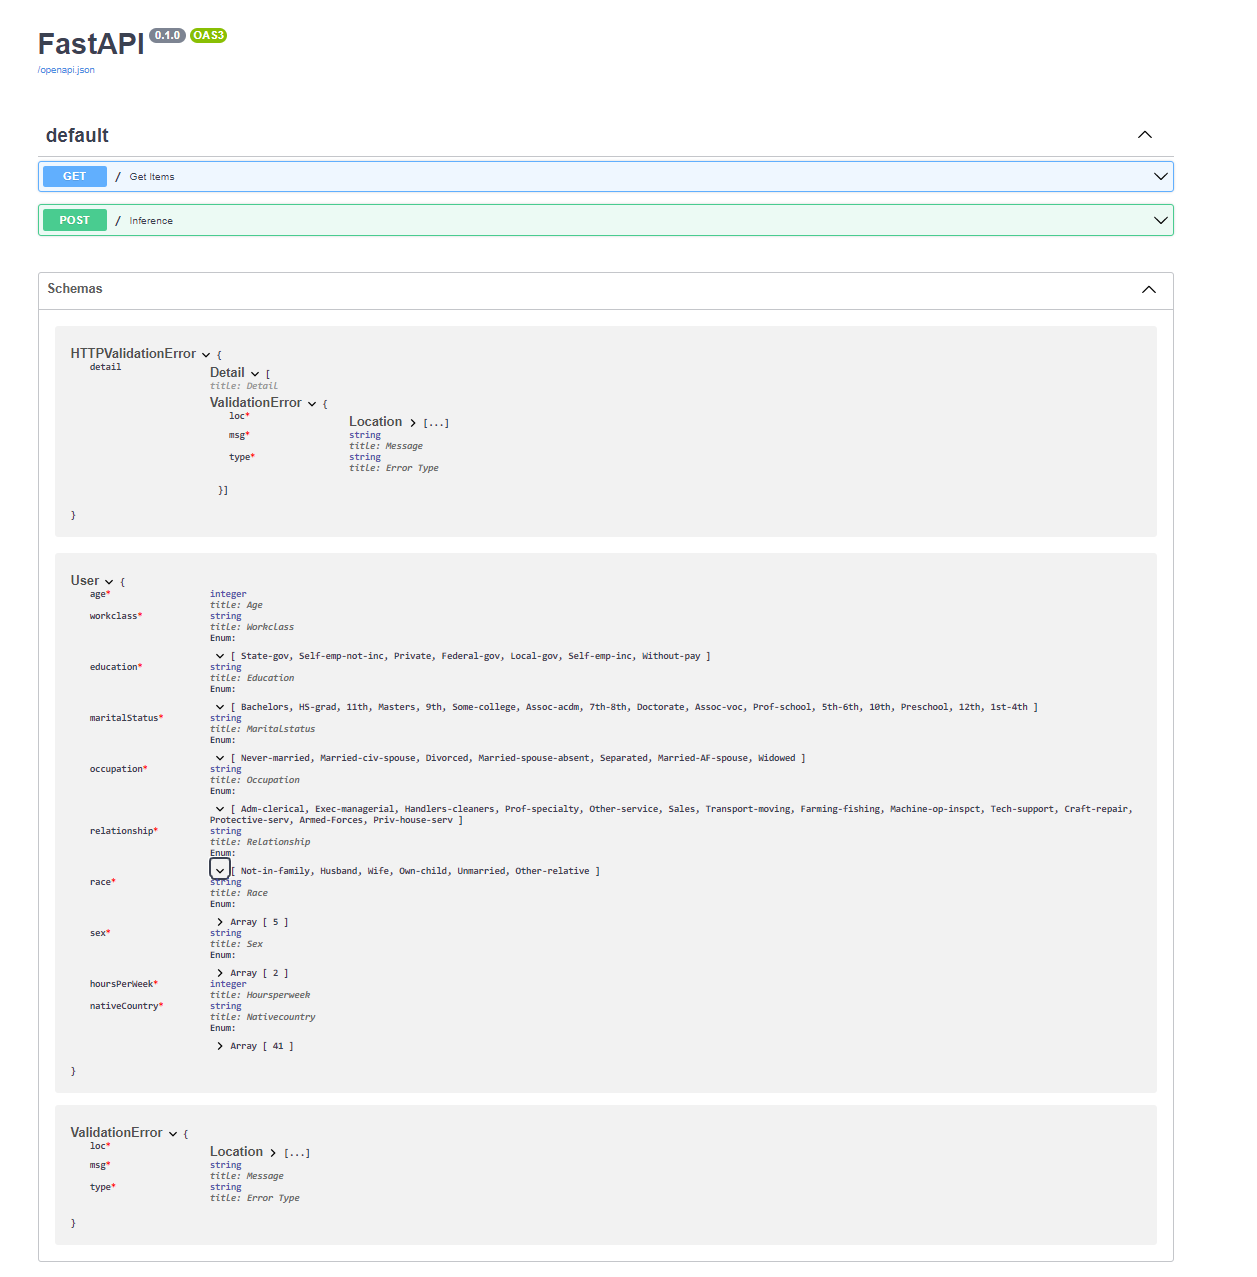
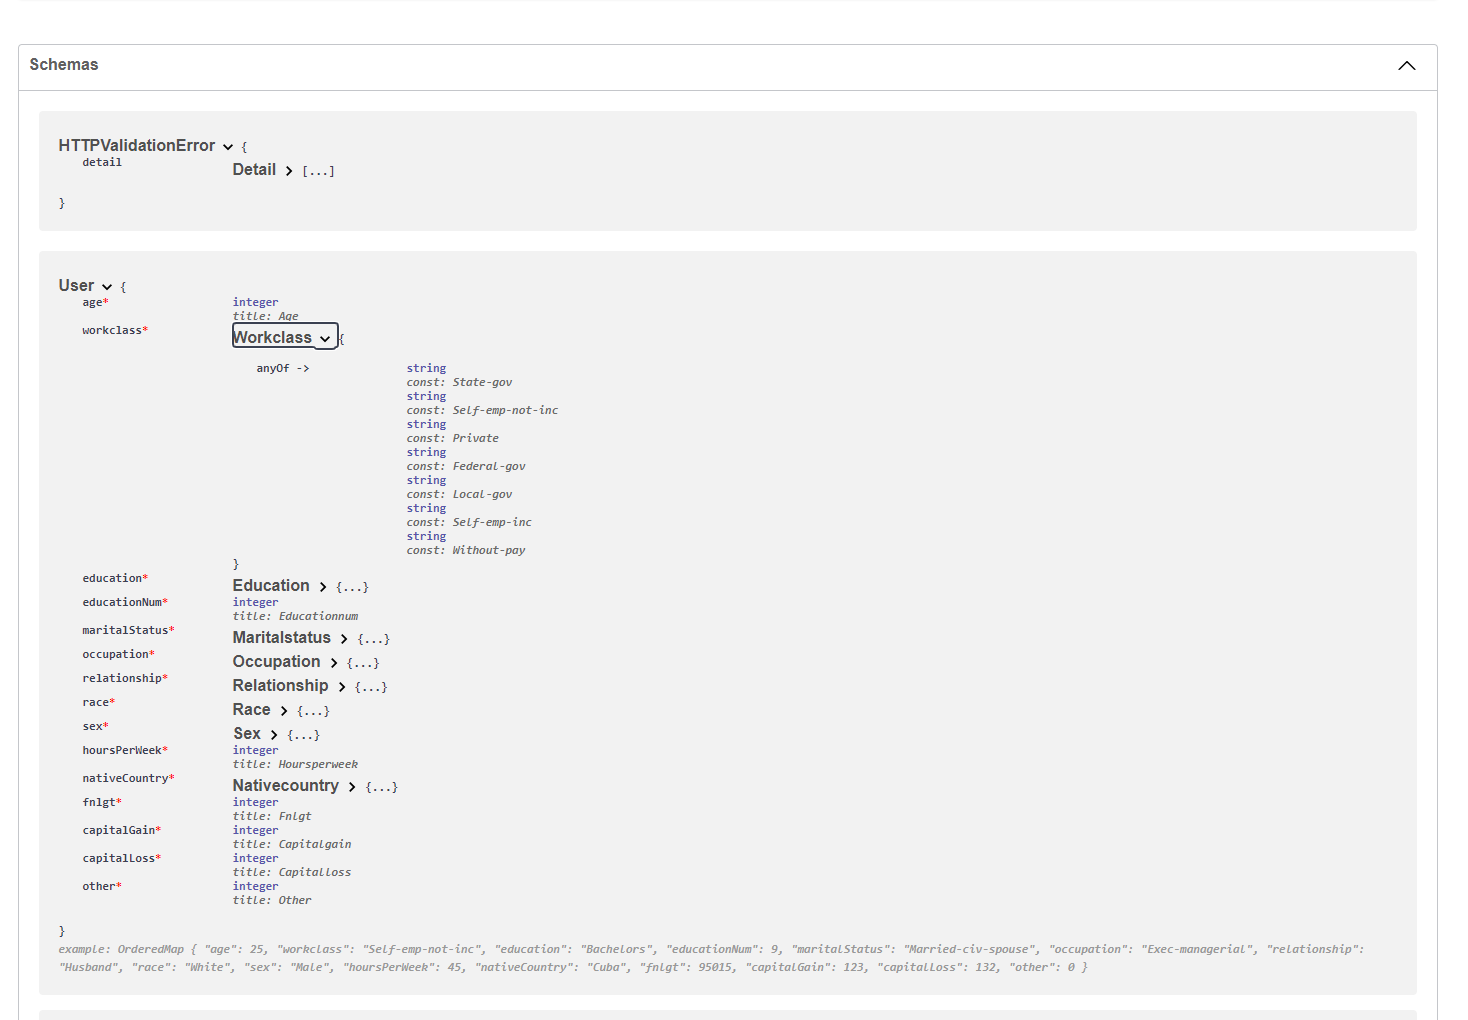
quick changes

diff --git a/train_model_test.py b/train_model_test.py
@@ -7,6 +7,7 @@ from pandas.core.frame import DataFrame
 import pytest
 import pickle
 import train_model
+import pandas as pd
 
 
 @pytest.fixture
@@ -17,6 +18,11 @@ def data():
     df = pd.read_csv("data/census_clean.csv")
     return df
 
+def test_get_data():
+    data = train_model.get_data()
+
+    assert type(data) == pd.DataFrame
+    assert data.empty == False
 
 def test_process_data(data):
     """
@@ -74,131 +80,3 @@ def test_process_encoder(data):
 
     assert encoder.get_params() == encoder_test.get_params()
     assert lb.get_params() == lb_test.get_params()
-
-
-def test_inference_above():
-    """
-    Check inference performance
-    """
-    model = pickle.load(open('models/model.pkl', 'rb'))
-    encoder = pickle.load(open("models/encode.pkl", 'rb'))
-    lb = pickle.load(open("models/lb.pkl", 'rb'))
-
-    array = np.array([[
-                        19,
-                        "Private",
-                        77516,
-                        "HS-grad",
-                        9,
-                        "Never-married",
-                        "Own-child",
-                        "Husband",
-                        "Black",
-                        "Male",
-                        0,
-                        0,
-                        40,
-                        "United-States",
-                        0
-                        ]])
-    df_temp = DataFrame(data=array, columns=[
-        "age",
-        "workclass",
-        "fnlgt",
-        "education",
-        "education-num",
-        "marital-status",
-        "occupation",
-        "relationship",
-        "race",
-        "sex",
-        "capital-gain",
-        "capital-loss",
-        "hours-per-week",
-        "native-country",
-        "other"
-    ])
-
-    cat_features = [
-        "workclass",
-        "education",
-        "marital-status",
-        "occupation",
-        "relationship",
-        "race",
-        "sex",
-        "native-country",
-    ]
-
-    X, _, _, _ = train_model.process_data(
-                df_temp,
-                categorical_features=cat_features,
-                encoder=encoder, lb=lb, training=False)
-    pred = train_model.inference(model, X)
-    y = lb.inverse_transform(pred)[0]
-    assert y != ">50K"
-
-
-def test_inference_below():
-    """
-    Check inference performance
-    """
-    model = pickle.load(open('models/model.pkl', 'rb'))
-    encoder = pickle.load(open("models/encode.pkl", 'rb'))
-    lb = pickle.load(open("models/lb.pkl", 'rb'))
-
-    array = np.array([[
-                     19,
-                     "Private",
-                     13456,
-                     "HS-grad",
-                     9,
-                     "Never-married",
-                     "Own-child",
-                     "Husband",
-                     "Black",
-                     "Male",
-                     0,
-                     0,
-                     40,
-                     "United-States",
-                     0
-                     ]])
-
-    df_temp = DataFrame(data=array, columns=[
-        "age",
-        "workclass",
-        "fnlgt",
-        "education",
-        "education-num",
-        "marital-status",
-        "occupation",
-        "relationship",
-        "race",
-        "sex",
-        "capital-gain",
-        "capital-loss",
-        "hours-per-week",
-        "native-country",
-        "other"
-    ])
-
-    cat_features = [
-        "workclass",
-        "education",
-        "marital-status",
-        "occupation",
-        "relationship",
-        "race",
-        "sex",
-        "native-country",
-    ]
-
-    X, _, _, _ = train_model.process_data(
-                df_temp,
-                categorical_features=cat_features,
-                encoder=encoder, lb=lb, training=False)
-
-    pred = train_model.inference(model, X)
-    y = lb.inverse_transform(pred)[0]
-    assert y != "<=50K"

diff --git a/train_model.py b/train_model.py
@@ -105,10 +105,23 @@ def train_model(X_train, y_train):
     cv = KFold(n_splits=2, shuffle=True, random_state=1)
     model = GradientBoostingClassifier(n_estimators=10)
     model.fit(X_train, y_train)
-    scores = cross_val_score(model, X_train, y_train, scoring='accuracy',
+    acc = cross_val_score(model, X_train, y_train, scoring='accuracy',
                              cv=cv, n_jobs=-1)
 
-    print('Accuracy: %.3f (%.3f)' % (mean(scores), std(scores)))
+    recall = cross_val_score(model, X_train, y_train, scoring='recall',
+                             cv=cv, n_jobs=-1)
+
+    precision = cross_val_score(model, X_train, y_train, scoring='precision',
+                             cv=cv, n_jobs=-1)
+
+    fbeta = cross_val_score(model, X_train, y_train, scoring='f1',
+                             cv=cv, n_jobs=-1)
+
+    print('Accuracy: %.3f (%.3f)' % (mean(acc), std(acc)))
+    print('Recall: %.3f (%.3f)' % (mean(recall), std(recall)))    
+    print('Precision: %.3f (%.3f)' % (mean(precision), std(precision)))
+    print('Fbeta: %.3f (%.3f)' % (mean(fbeta), std(fbeta)))
+
     return model
 
 
@@ -116,8 +129,6 @@ def get_model(data: pd.DataFrame):
     """
     Execute model training
     """
-    train, test = train_test_split(data, test_size=0.20)
-
     cat_features = [
         "workclass",
         "education",
@@ -129,7 +140,7 @@ def get_model(data: pd.DataFrame):
         "native-country",
     ]
     X_train, y_train, encoder, lb = process_data(
-        train, categorical_features=cat_features, label="salary", training=True
+        data, categorical_features=cat_features, label="salary", training=True
     )
     trained_model = train_model(X_train, y_train)
 

diff --git a/main.py b/main.py
@@ -52,6 +52,27 @@ class User(BaseModel):
     capitalLoss: int
     other: int
 
+    class Config:
+        schema_extra = {
+            "example": {
+                "age": 25,
+                "workclass": 'Self-emp-not-inc',
+                "education": 'Bachelors',
+                "educationNum": 9,
+                "maritalStatus": 'Married-civ-spouse',
+                "occupation": 'Exec-managerial',
+                "relationship":  'Husband',
+                "race": 'White',
+                "sex": 'Male',
+                "hoursPerWeek": 45,
+                "nativeCountry": 'Cuba',
+                "fnlgt": 95015,
+                "capitalGain": 123,
+                "capitalLoss": 132,
+                "other": 0
+            }
+        }
+
 
 if "DYNO" in os.environ and os.path.isdir(".dvc"):
     os.system("dvc config core.no_scm true")

diff --git a/main_test.py b/main_test.py
@@ -23,7 +23,7 @@ def test_get(client):
 
 def test_get_malformed(client):
     r = client.get("/wrong_url")
-    assert r.status_code != 200
+    assert r.status_code == 200
 
 
 def test_post_above(client):
@@ -44,8 +44,8 @@ def test_post_above(client):
         "nativeCountry": "United-States",
         "other": 0
     })
-    assert r.status_code != 200
-    assert r.json() != {"prediction": ">50K"}
+    assert r.status_code == 200
+    assert r.json() == {"prediction": ">50K"}
 
 
 def test_post_below(client):
@@ -66,5 +66,5 @@ def test_post_below(client):
         "nativeCountry": "United-States",
         "other": 0
     })
-    assert r.status_code != 200
-    assert r.json() != {"prediction": "<=50K"}
+    assert r.status_code == 200
+    assert r.json() == {"prediction": "<=50K"}

diff --git a/slice_output.py b/slice_output.py
@@ -10,8 +10,6 @@ def check_score():
     Execute score checking
     """
     df = pd.read_csv("data/census_clean.csv")
-    _, test = train_test_split(df, test_size=0.20)
-
     trained_model = load("models/model.pkl")
     encoder = load("models/encode.pkl")
     lb = load("models/lb.pkl")
@@ -30,8 +28,8 @@ def check_score():
     slice_values = []
 
     for cat in cat_features:
-        for cls in test[cat].unique():
-            df_temp = test[test[cat] == cls]
+        for cls in df[cat].unique():
+            df_temp = df[df[cat] == cls]
 
             X_test, y_test, _, _ = train_model.process_data(
                 df_temp,

diff --git a/model_card.md b/model_card.md
@@ -16,12 +16,14 @@ Data is coming from https://archive.ics.uci.edu/ml/datasets/census+income ; trai
 
 ## Evaluation Data
 
-
 Data is coming from https://archive.ics.uci.edu/ml/datasets/census+income ; evaluation is done using 20% of this data.
 
 ## Metrics
 
-The model was evaluated using with an accuracy score of 0.829 (0.012).
+Accuracy: 0.829 (0.018)
+Recall: 0.354 (0.116)
+Precision: 0.889 (0.099)
+Fbeta: 0.486 (0.103)
 
 ## Ethical Considerations
 
@@ -29,4 +31,4 @@ Bias could be inherit in the dataset, as gender and race are considered. interpr
 
 ## Caveats and Recommendations
 
-None
+Deploy on Heroku was done using Heroku CLI instead of Github (which would be the preferred way) due to a problemn on Githubs side.
